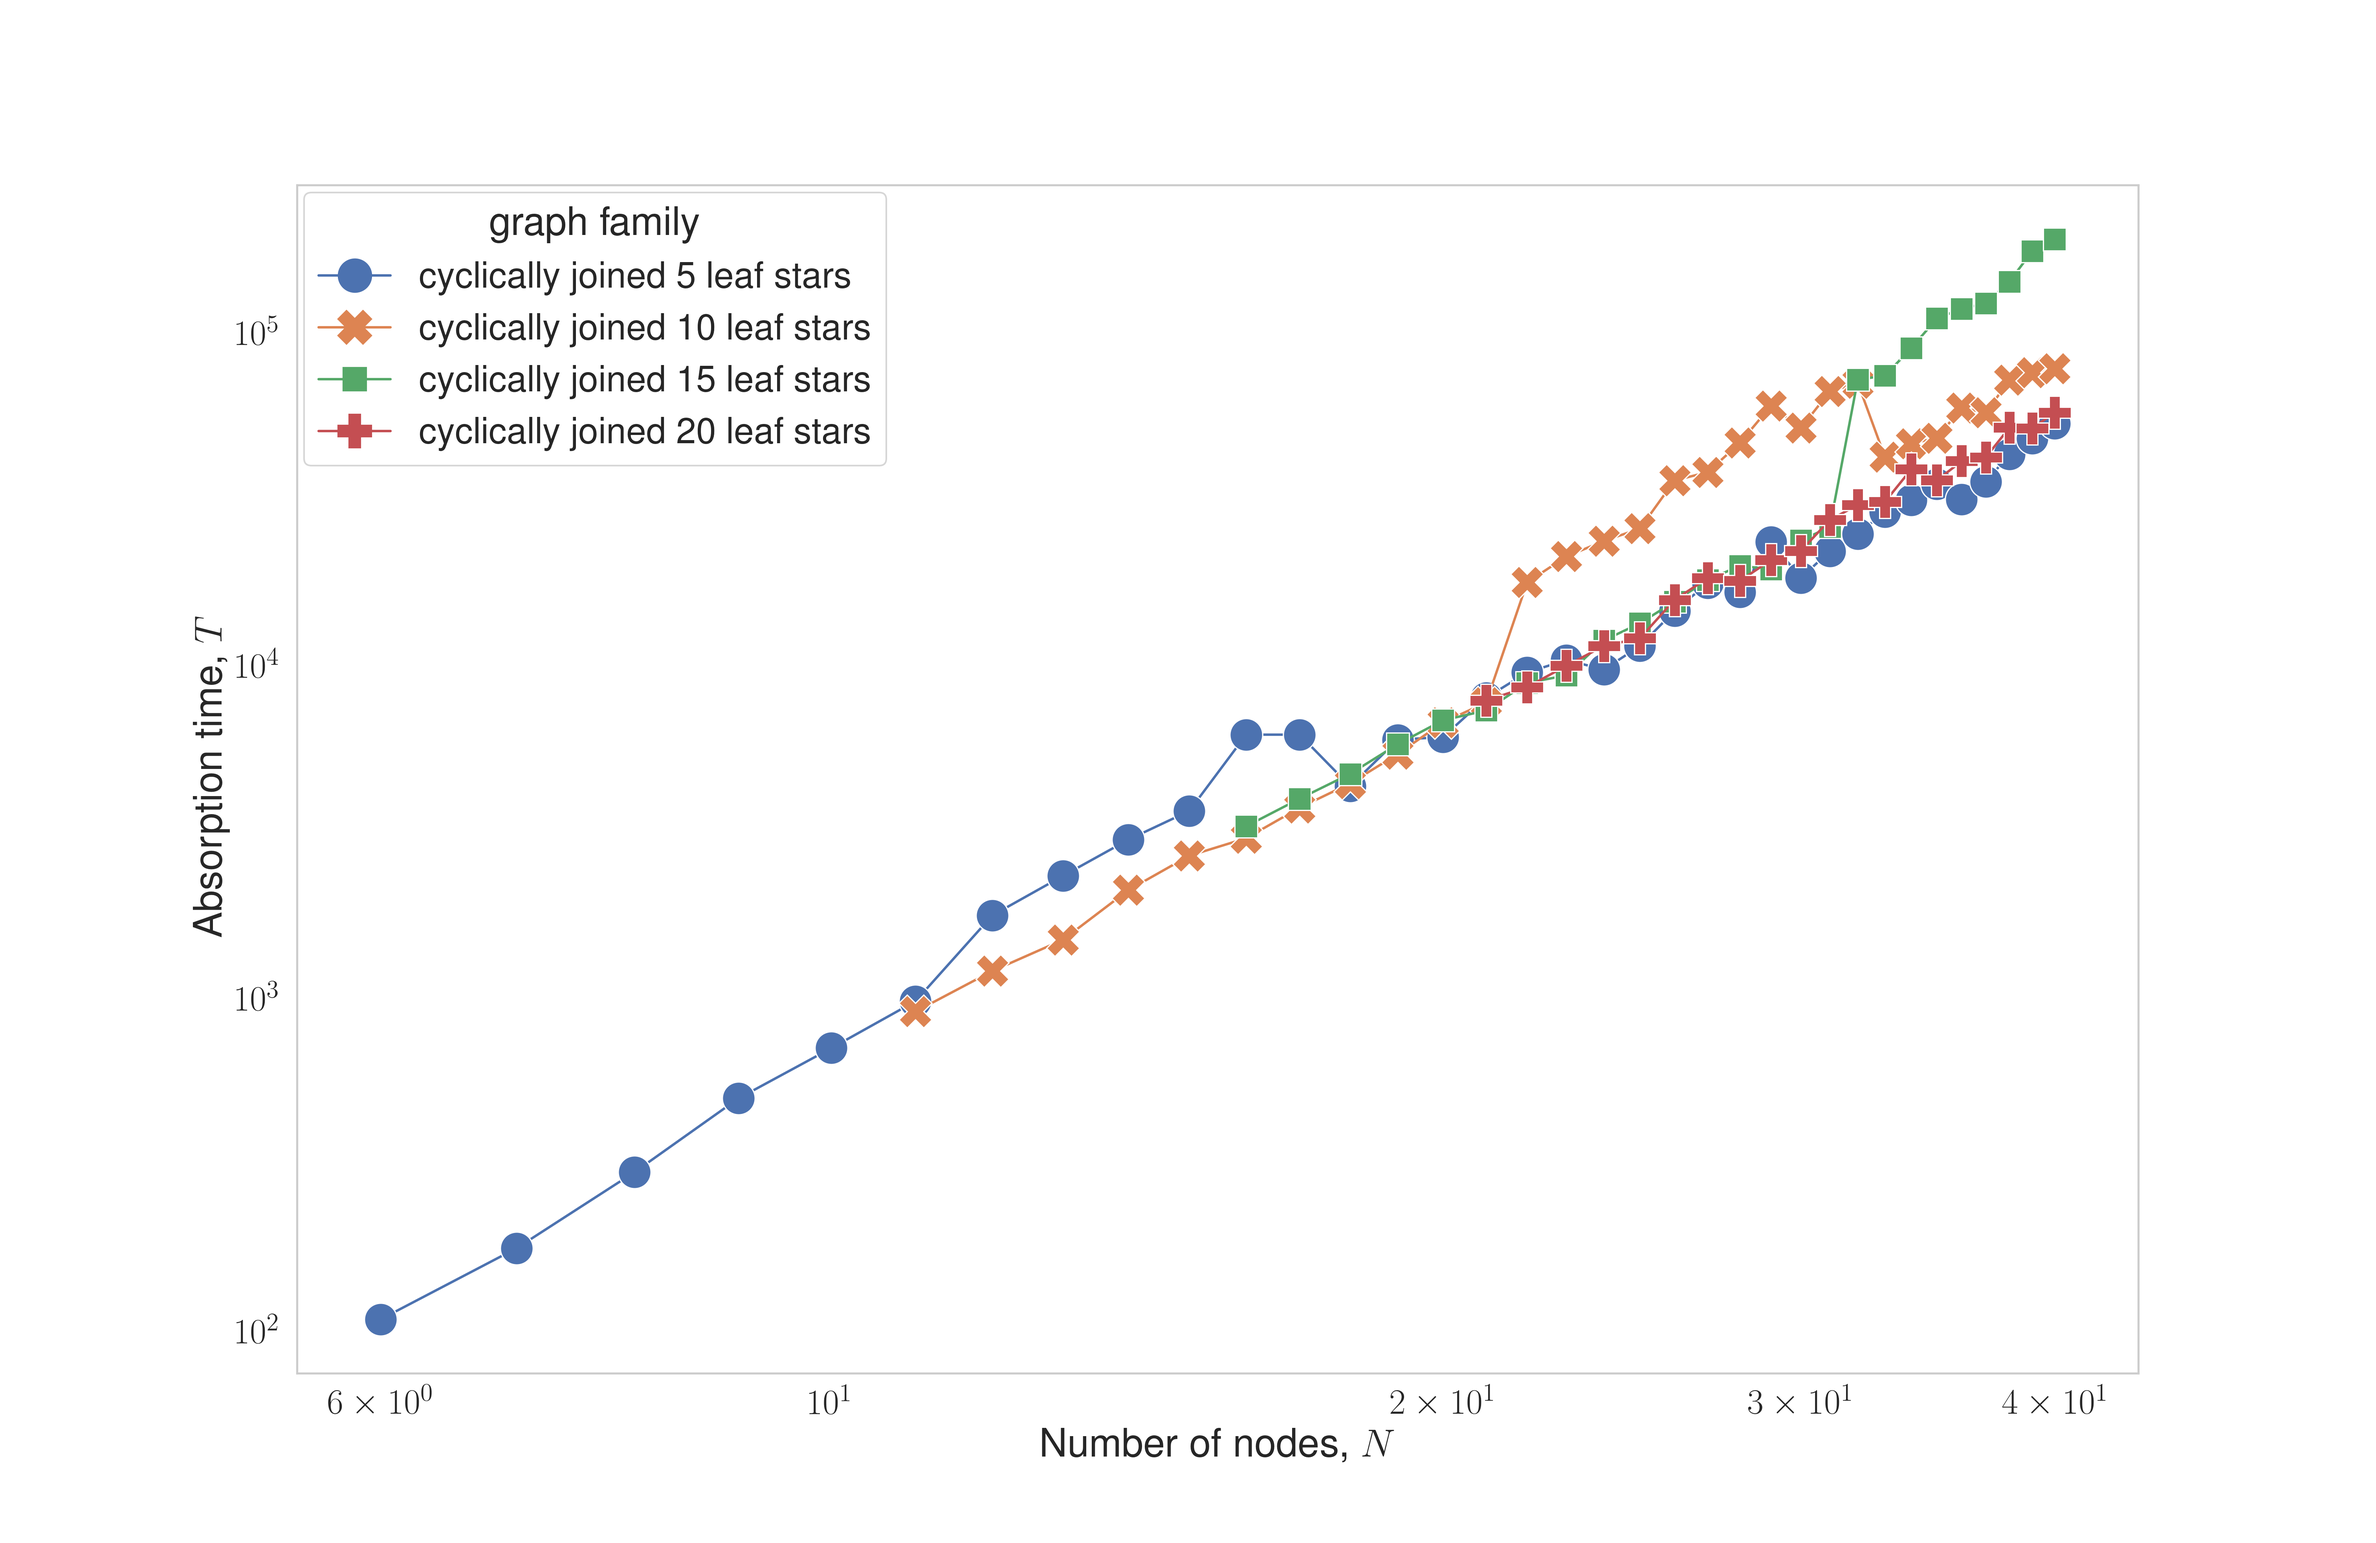
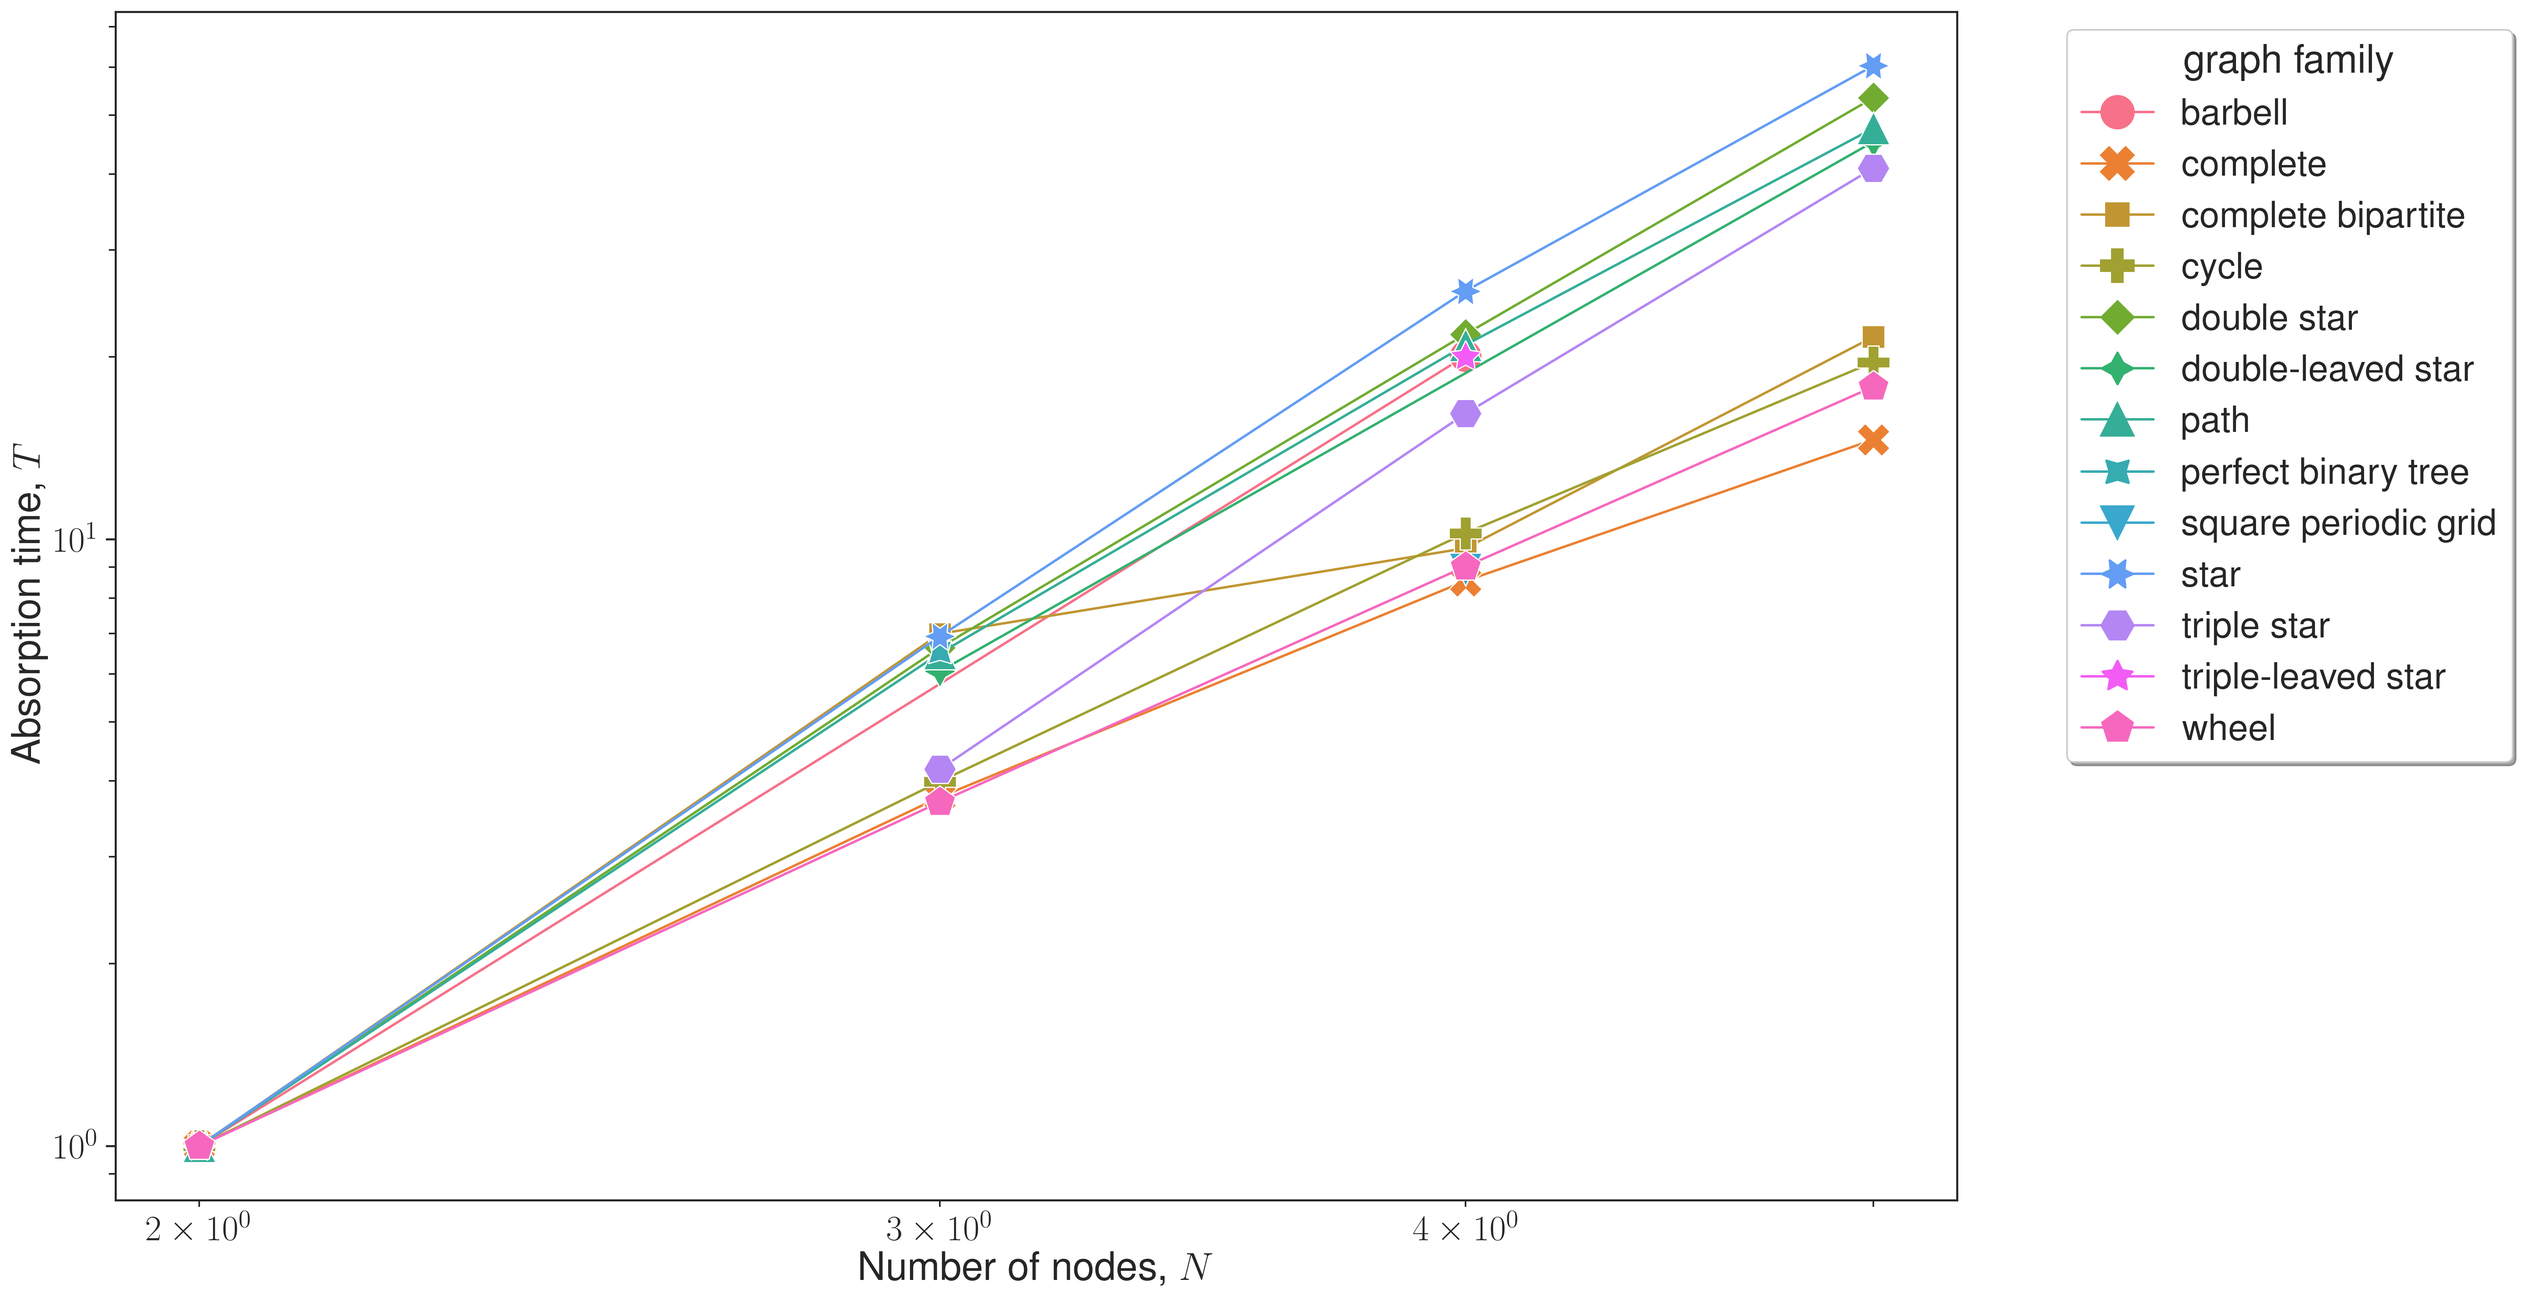
fixed trends

diff --git a/plot-generators/trends.py b/plot-generators/trends.py
@@ -12,12 +12,18 @@ from classes import *
 from typing import *
 from multiprocessing import Pool
 from dotenv import load_dotenv
+from pathlib import Path
+from customlogger import logger
 
 load_dotenv()
 
 N = int(os.environ["N"])
 NUM_WORKERS = int(os.getenv("NUM_WORKERS", default=1))
 NUM_SIMULATIONS = int(os.getenv("NUM_SIMULATIONS", default=100))
+USE_EXISTING_DATA = os.getenv("USE_EXISTING_DATA", default='false').lower() not in ('false', '0')
+OVERWRITE = os.getenv("OVERWRITE", default='false').lower() not in ('false', '0')
+TRENDS_DATA_FILE = Path(os.environ["TRENDS_DATA_FILE"])
+DRAW = os.getenv("DRAW", default='false').lower() not in ('false', '0')
 
 plt.rcParams.update({
   "text.usetex": True,
@@ -31,27 +37,23 @@ def samples_info(G: nx.Graph, times: int = 100):
 
 
 GRAPH_GENERATORS = [
-  GraphGenerator(cyclically_joined_5_leaf_stars, 'cyclically joined 5 leaf stars'),
-  GraphGenerator(cyclically_joined_10_leaf_stars, 'cyclically joined 10 leaf stars'),
-  GraphGenerator(cyclically_joined_15_leaf_stars, 'cyclically joined 15 leaf stars'),
-  GraphGenerator(cyclically_joined_20_leaf_stars, 'cyclically joined 20 leaf stars'),
-  # GraphGenerator(nx.complete_graph, 'complete'),
-  # GraphGenerator(complete_with_safe, 'complete with safe'),
-  # GraphGenerator(star_graph, 'star'),
-  # GraphGenerator(conjoined_star_graph, 'conjoined star'),
-  # GraphGenerator(custom_long_conjoined_star_graph, 'long conjoined star'),
-  # GraphGenerator(nx.cycle_graph, 'cycle'),
-  # GraphGenerator(complete_bipartite_graph, 'complete bipartite'),
-  # GraphGenerator(nx.path_graph, 'path'),
-  # GraphGenerator(barbell_graph, 'barbell'),
-  # GraphGenerator(perfect_binary_tree, 'perfect binary tree'),
-  # GraphGenerator(perfect_ternary_tree, 'perfect ternary tree'),
-  # GraphGenerator(perfect_quadary_tree, 'perfect quadary tree'),
-  # GraphGenerator(perfect_fiveary_tree, 'perfect 5-ary tree'),
+  GraphGenerator(barbell_graph, 'barbell'),
+  GraphGenerator(nx.complete_graph, 'complete'),
+  GraphGenerator(complete_bipartite_graph, 'complete bipartite'),
+  GraphGenerator(nx.cycle_graph, 'cycle'),
+  GraphGenerator(conjoined_star_graph, 'double star'),
+  GraphGenerator(double_leaved_star, 'double-leaved star'),
+  GraphGenerator(nx.path_graph, 'path'),
+  GraphGenerator(perfect_binary_tree, 'perfect binary tree'),
+  GraphGenerator(square_periodic_grid, 'square periodic grid'),
+  GraphGenerator(star_graph, 'star'),
+  GraphGenerator(cyclically_joined_stars_3_stars, 'triple star'),
+  GraphGenerator(triple_leaved_star, 'triple-leaved star'),
+  GraphGenerator(nx.wheel_graph, 'wheel'),
 ]
 
 def simulate(graph_generator: GraphGenerator, n: int):
-  print(graph_generator.name, n)
+  logger.info((graph_generator.name, n))
   if G := graph_generator.build_graph(n):
     assert len(G) == n, (graph_generator.name, n)
     abs_time = samples_info(G)
@@ -60,18 +62,27 @@ def simulate(graph_generator: GraphGenerator, n: int):
 
 
 def draw(N):
-  data = []
-  with Pool(NUM_WORKERS) as p:
-    for datum in p.starmap(simulate, (
-      (graph_generator, n)
-      for graph_generator in GRAPH_GENERATORS
-      for n in range(2, N+1)
-    )):
-      if datum:
-        data.append(datum)
+  df = None
+  if USE_EXISTING_DATA:
+    df = pd.read_pickle(TRENDS_DATA_FILE)
+  else:
+    data = []
+    with Pool(NUM_WORKERS) as p:
+      for datum in p.starmap(simulate, (
+        (graph_generator, n)
+        for graph_generator in GRAPH_GENERATORS
+        for n in range(2, N+1)
+      )):
+        if datum:
+          data.append(datum)
+    df = pd.DataFrame(data, columns=['number_of_nodes', 'absorption_time', 'graph_family'])
+  
+  if OVERWRITE:
+    pd.to_pickle(df, TRENDS_DATA_FILE)
 
-  df = pd.DataFrame(data, columns=['number_of_nodes', 'absorption_time', 'graph_family'])
-  print('drawing')
+  if not DRAW: return
+
+  logger.info('drawing')
   plot = sns.lineplot(
     df,
     x='number_of_nodes',
@@ -94,14 +105,16 @@ def draw(N):
     h.set_markersize(20)
 
   # replace legend using handles and labels from above
-  lgnd = plt.legend(handles, lables, loc='upper left', borderaxespad=0.2, title='graph family')
+  # lgnd = plt.legend(handles, lables, loc='upper right', borderaxespad=0.2, bbox_to_anchor=(1.05, 1), title='graph family', shadow=True, fancybox=True)
+  lgnd = plt.legend(handles, lables, loc='upper left', bbox_to_anchor=(1.05, 1), title='graph family', shadow=True, fancybox=True)
   # plt.legend()
   # plt.tight_layout()
+  # plot.tick_params(axis='both', which='both', length=5, width=2, color='grey')
   dpi = 300
   width, height = 2*np.array([3024, 1964])
   fig = plot.get_figure()
   fig.set_size_inches(*(width/dpi, height/dpi))
-  fig.savefig('plots/trends.png', dpi=dpi)
+  fig.savefig('plots/trends.png', dpi=dpi, bbox_inches='tight')
 
 if __name__ == '__main__':
   draw(N)

diff --git a/plot-generators/absorption.py b/plot-generators/absorption.py
@@ -14,7 +14,7 @@ def trial_absorption_time_interactive(G: nx.Graph, max_steps: Optional[int] = No
   return _trial_absorption_time(G, max_steps=max_steps, interactive=True, mutation_rate=mutation_rate, num_initial_types=num_initial_types or len(G))
 
 def trial_absorption_time(G: nx.Graph):
-  for e in _trial_absorption_time(G, max_steps=None, interactive=False, num_initial_types=len(G)):
+  for e in _trial_absorption_time(G, max_steps=None, interactive=False, num_initial_types=len(G), mutation_rate=0):
     return e
   return None
 

diff --git a/plot-generators/utils.py b/plot-generators/utils.py
@@ -12,7 +12,7 @@ from pathlib import Path
 from networkx.readwrite.graph6 import data_to_n
 
 sns.set_theme(font_scale=2, rc={'text.usetex' : True})
-sns.set_style("whitegrid", {'axes.grid' : False})
+sns.set_style("ticks") # , {'axes.grid' : True})
 
 def is_undirected(G: nx.DiGraph):
   return all((v, u) in G.edges() for (u, v) in G.edges())
